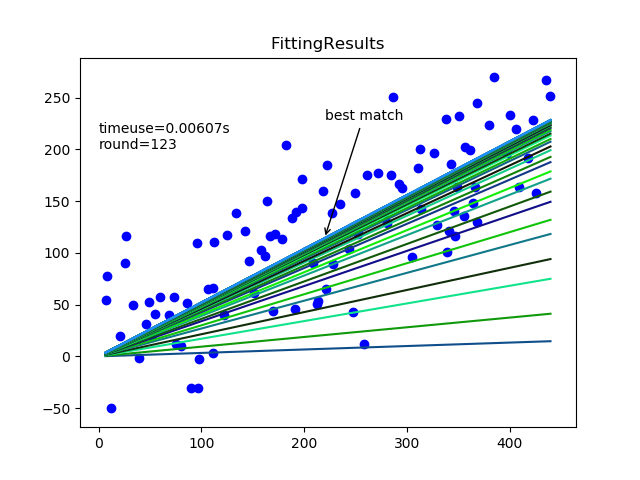
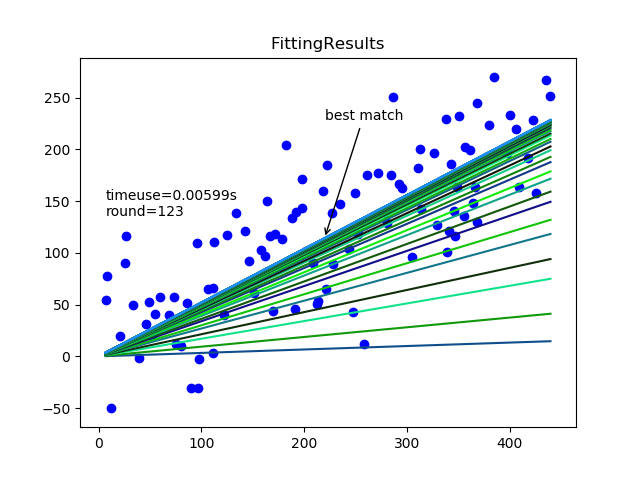
完成了拟合的代码编写（梯度下降方法） 最后的线条渐变疑似有问题，有待检查 图表注释项原数据、现数据的对比待增加

Changed region(s): [[0.1562, 0.375, 0.375, 0.4688], [0.1562, 0.25, 0.375, 0.3125]]

diff --git a/Step1_Operate/Fitting.py b/Step1_Operate/Fitting.py
@@ -76,7 +76,7 @@ def draw(dots, set_k, set_b, number, count, timeuse):
             plt.annotate("best match",xy=(x[1]/2,y[1]/2),xytext=(x[1]/2,y[1]),arrowprops=dict(arrowstyle='->'))
     plt.scatter([x[0] for x in dots], [x[1] for x in dots], c='b')
     plt.title('FittingResults')
-    plt.text(0,200,'timeuse='+str(timeuse)+"s\nround="+str(count))
+    plt.text(min([x[0] for x in dots]),max([x[1] for x in dots])/2,'timeuse='+str(timeuse)+"s\nround="+str(count))
     plt.savefig('../Data&Results/Fitting/FittingResult.png')
     plt.show()
 
